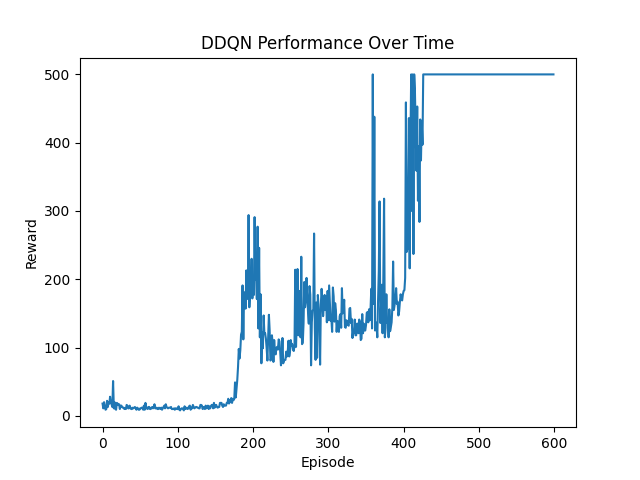
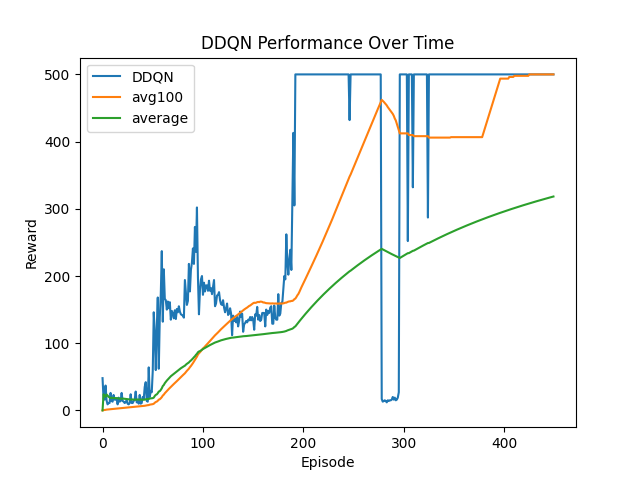
ddqn with seeding

diff --git a/src/agents/ddqn.py b/src/agents/ddqn.py
@@ -27,7 +27,7 @@ else:
     sys.exit(1)
 
 # Import the plotting function
-from src.utils.plot import plot_episode_durations
+from src.utils.plot import plot_single_episode, plot_multiple_episodes
 
 # Declare a namedtuple to store transitions 
 Transition = namedtuple('Transition', ('state', 'action', 'reward', 'next_state'))
@@ -54,7 +54,7 @@ class ReplayBuffer(object):
         self.memory = deque([], maxlen=capacity)
 
     def push(self, *args) -> None:
-        """Adds a transition in the memory.
+        """ Adds a transition in the memory.
 
         Args:
             *args: Components of the transition to be stored (state,
@@ -64,7 +64,7 @@ class ReplayBuffer(object):
         self.memory.append(Transition(*args))
 
     def sample(self, batch_size: int) -> list:
-        """Randomly sample a batch of transitions from the buffer.
+        """ Randomly sample a batch of transitions from the buffer.
         
         Args:
             batch_size (int): The number of transitions to sample.
@@ -76,7 +76,7 @@ class ReplayBuffer(object):
         return random.sample(self.memory, batch_size)
 
     def __len__(self) -> int:
-        """Gets the current size of the internal memory.
+        """ Gets the current size of the internal memory.
         
         Returns:
             (int): The number of transitions stored in the buffer.
@@ -85,7 +85,7 @@ class ReplayBuffer(object):
         return len(self.memory)
     
 class DQN(nn.Module):
-    """Implements a Deep Q-Network model.
+    """ Implements a Deep Q-Network model.
 
     Methods:
     - forward(state):  Defines the forward pass of the DQN model.
@@ -99,13 +99,11 @@ class DQN(nn.Module):
         """
 
         super(DQN, self).__init__()
-        self.layer1 = nn.Linear(n_observations, 128)
-        self.layer2 = nn.Linear(128, 128)
-        self.layer3 = nn.Linear(128, n_actions)
+        self.layer1 = nn.Linear(n_observations, 256)
+        self.layer2 = nn.Linear(256, n_actions)
 
     def forward(self, state: torch.Tensor) -> torch.Tensor:
-        """
-        Defines the forward pass of the DQN model.
+        """ Defines the forward pass of the DQN model.
 
         Args:
             state (torch.Tensor): The input state tensor for which action values are to be predicted.
@@ -115,11 +113,11 @@ class DQN(nn.Module):
         """
         
         state = F.relu(self.layer1(state))
-        state = F.relu(self.layer2(state))
-        return self.layer3(state)
+        return self.layer2(state)
 
-class DQNAgent:
-    """ Implements a an agent that learns using a DQN.
+class DDQNAgent:
+    """ Implements a an agent that learns using a DQN which is updated
+    using Double Q-learning.
     
     Attributes:
         n_actions (int): Number of possible actions in the environment.
@@ -138,6 +136,7 @@ class DQNAgent:
         optimizer (torch.optim.Optimizer): Optimizer for learning the policy network's parameters.
         buffer (ReplayBuffer): Replay buffer for storing experiences.
         steps_done (int): Counter for the number of steps taken (for epsilon decay).
+        seed (int): The seed used for resetting the environment.
 
     Methods:
         decay_epsilon():  Decays the epsilon value used for epsilon-greedy action selection,
@@ -156,7 +155,8 @@ class DQNAgent:
                  epsilon_end: float, 
                  epsilon_decay: int,
                  update_rate: float, 
-                 learning_rate: float):
+                 learning_rate: float,
+                 seed: int):
         
         """
         Args:
@@ -170,6 +170,7 @@ class DQNAgent:
             update_rate (float): Rate at which the target network's weights are updated towards 
         the policy network's weights.
             learning_rate (float): Learning rate for the optimizer.
+            seed (int): The seed used for resetting the environment.
         """
         
         self.n_actions = n_actions
@@ -196,6 +197,8 @@ class DQNAgent:
 
         self.steps_done = 0
 
+        self.seed = seed
+
     def decay_epsilon(self) -> None:
         """
         Decays the epsilon value used for epsilon-greedy action selection,
@@ -206,8 +209,7 @@ class DQNAgent:
         self.steps_done += 1
 
     def select_action(self, state: torch.Tensor) -> torch.Tensor:
-        """
-        Selects an action using epsilon-greedy policy based on the current state.
+        """ Selects an action using epsilon-greedy policy based on the current state.
 
         Args:
             state (torch.Tensor): The current state of the environment.
@@ -277,8 +279,7 @@ class DQNAgent:
         self.optimizer.step()
 
     def train(self, env: gym.wrappers, num_episodes: int) -> list:
-        """
-        Trains the agent on the given environment for a specified number of episodes.
+        """ Trains the agent on the given environment for a specified number of episodes.
 
         Args:
             env (gym.wrappers): The environment to train the agent on.
@@ -293,7 +294,7 @@ class DQNAgent:
         for i_episode in tqdm(range(num_episodes)):
             
             # Reset the environment (start new episode) and get the starting state
-            state, _ = env.reset()
+            state, _ = env.reset(seed = self.seed)
 
             # Convert the state into a tensor to facilitate training
             state = torch.tensor(state, dtype=torch.float32).unsqueeze(0)
@@ -347,42 +348,57 @@ if __name__ == "__main__":
     env = gym.make("CartPole-v1")
 
     # Set the hyper-parameters
-    BATCH_SIZE = 128
+    BATCH_SIZE = 64
     GAMMA = 0.99
     EPS_START = 0.9
     EPS_END = 0.05
     EPS_DECAY = 1000
     TAU = 0.005
-    LR = 1e-4
+    LR = 1e-3
 
-    # Reset the environment to get the number of 
-    # dimensions of the observation space and the number 
-    # of available actions
-    state, info = env.reset()
-    n_observations = len(state)
+    # Get the number of dimensions of the observation space 
+    # and the number of available actions
+    n_observations = env.observation_space.shape[0]
     n_actions = env.action_space.n
 
     # Set the number of episodes
-    num_episodes = 600
+    num_episodes = 450
 
-    # Declare the DQN agent
-    agent = DQNAgent(
-        n_actions=n_actions,
-        n_obs=n_observations,
-        batch_size=BATCH_SIZE,
-        discount_factor=GAMMA,
-        epsilon_start=EPS_START,
-        epsilon_decay=EPS_DECAY,
-        epsilon_end=EPS_END,
-        update_rate=TAU,
-        learning_rate=LR
-    )
+    # Declare a list to store the performance of the algorithm over seeds
+    episode_durations_over_seeds = []
 
-    # Train the DQN agent
-    episode_durations = agent.train(env=env, num_episodes=num_episodes)
+    for seed in [1, 2, 3, 5, 8]: # Fibonacci seeds
 
-    # Plot the episode durations
-    plot_episode_durations(algorithm="DDQN", episode_durations=episode_durations, num_episodes=num_episodes)
+        # Set the seed
+        torch.manual_seed(seed)
+        random.seed(seed)
+
+        # Declare the DDQN agent
+        agent = DDQNAgent(
+            n_actions = n_actions,
+            n_obs = n_observations,
+            batch_size = BATCH_SIZE,
+            discount_factor = GAMMA,
+            epsilon_start = EPS_START,
+            epsilon_decay = EPS_DECAY,
+            epsilon_end = EPS_END,
+            update_rate = TAU,
+            learning_rate = LR,
+            seed = seed
+        )
+
+        # Train the DDQN agent
+        episode_durations = agent.train(env = env, num_episodes = num_episodes)
+
+        # Record the performance of the algorithm
+        episode_durations_over_seeds.append(episode_durations)
+
+    # Plot the performance recorded over the last seed
+    seed_episode_durations = episode_durations_over_seeds[0]
+    plot_single_episode(algorithm = "DDQN", episode_durations = seed_episode_durations, num_episodes = num_episodes)
+
+    # Plot the performance of the algorithm over the seeds
+    plot_multiple_episodes(algorithm = "DDQN", episode_durations_over_seeds = episode_durations_over_seeds)
 
     # Close the environment
     env.close()
